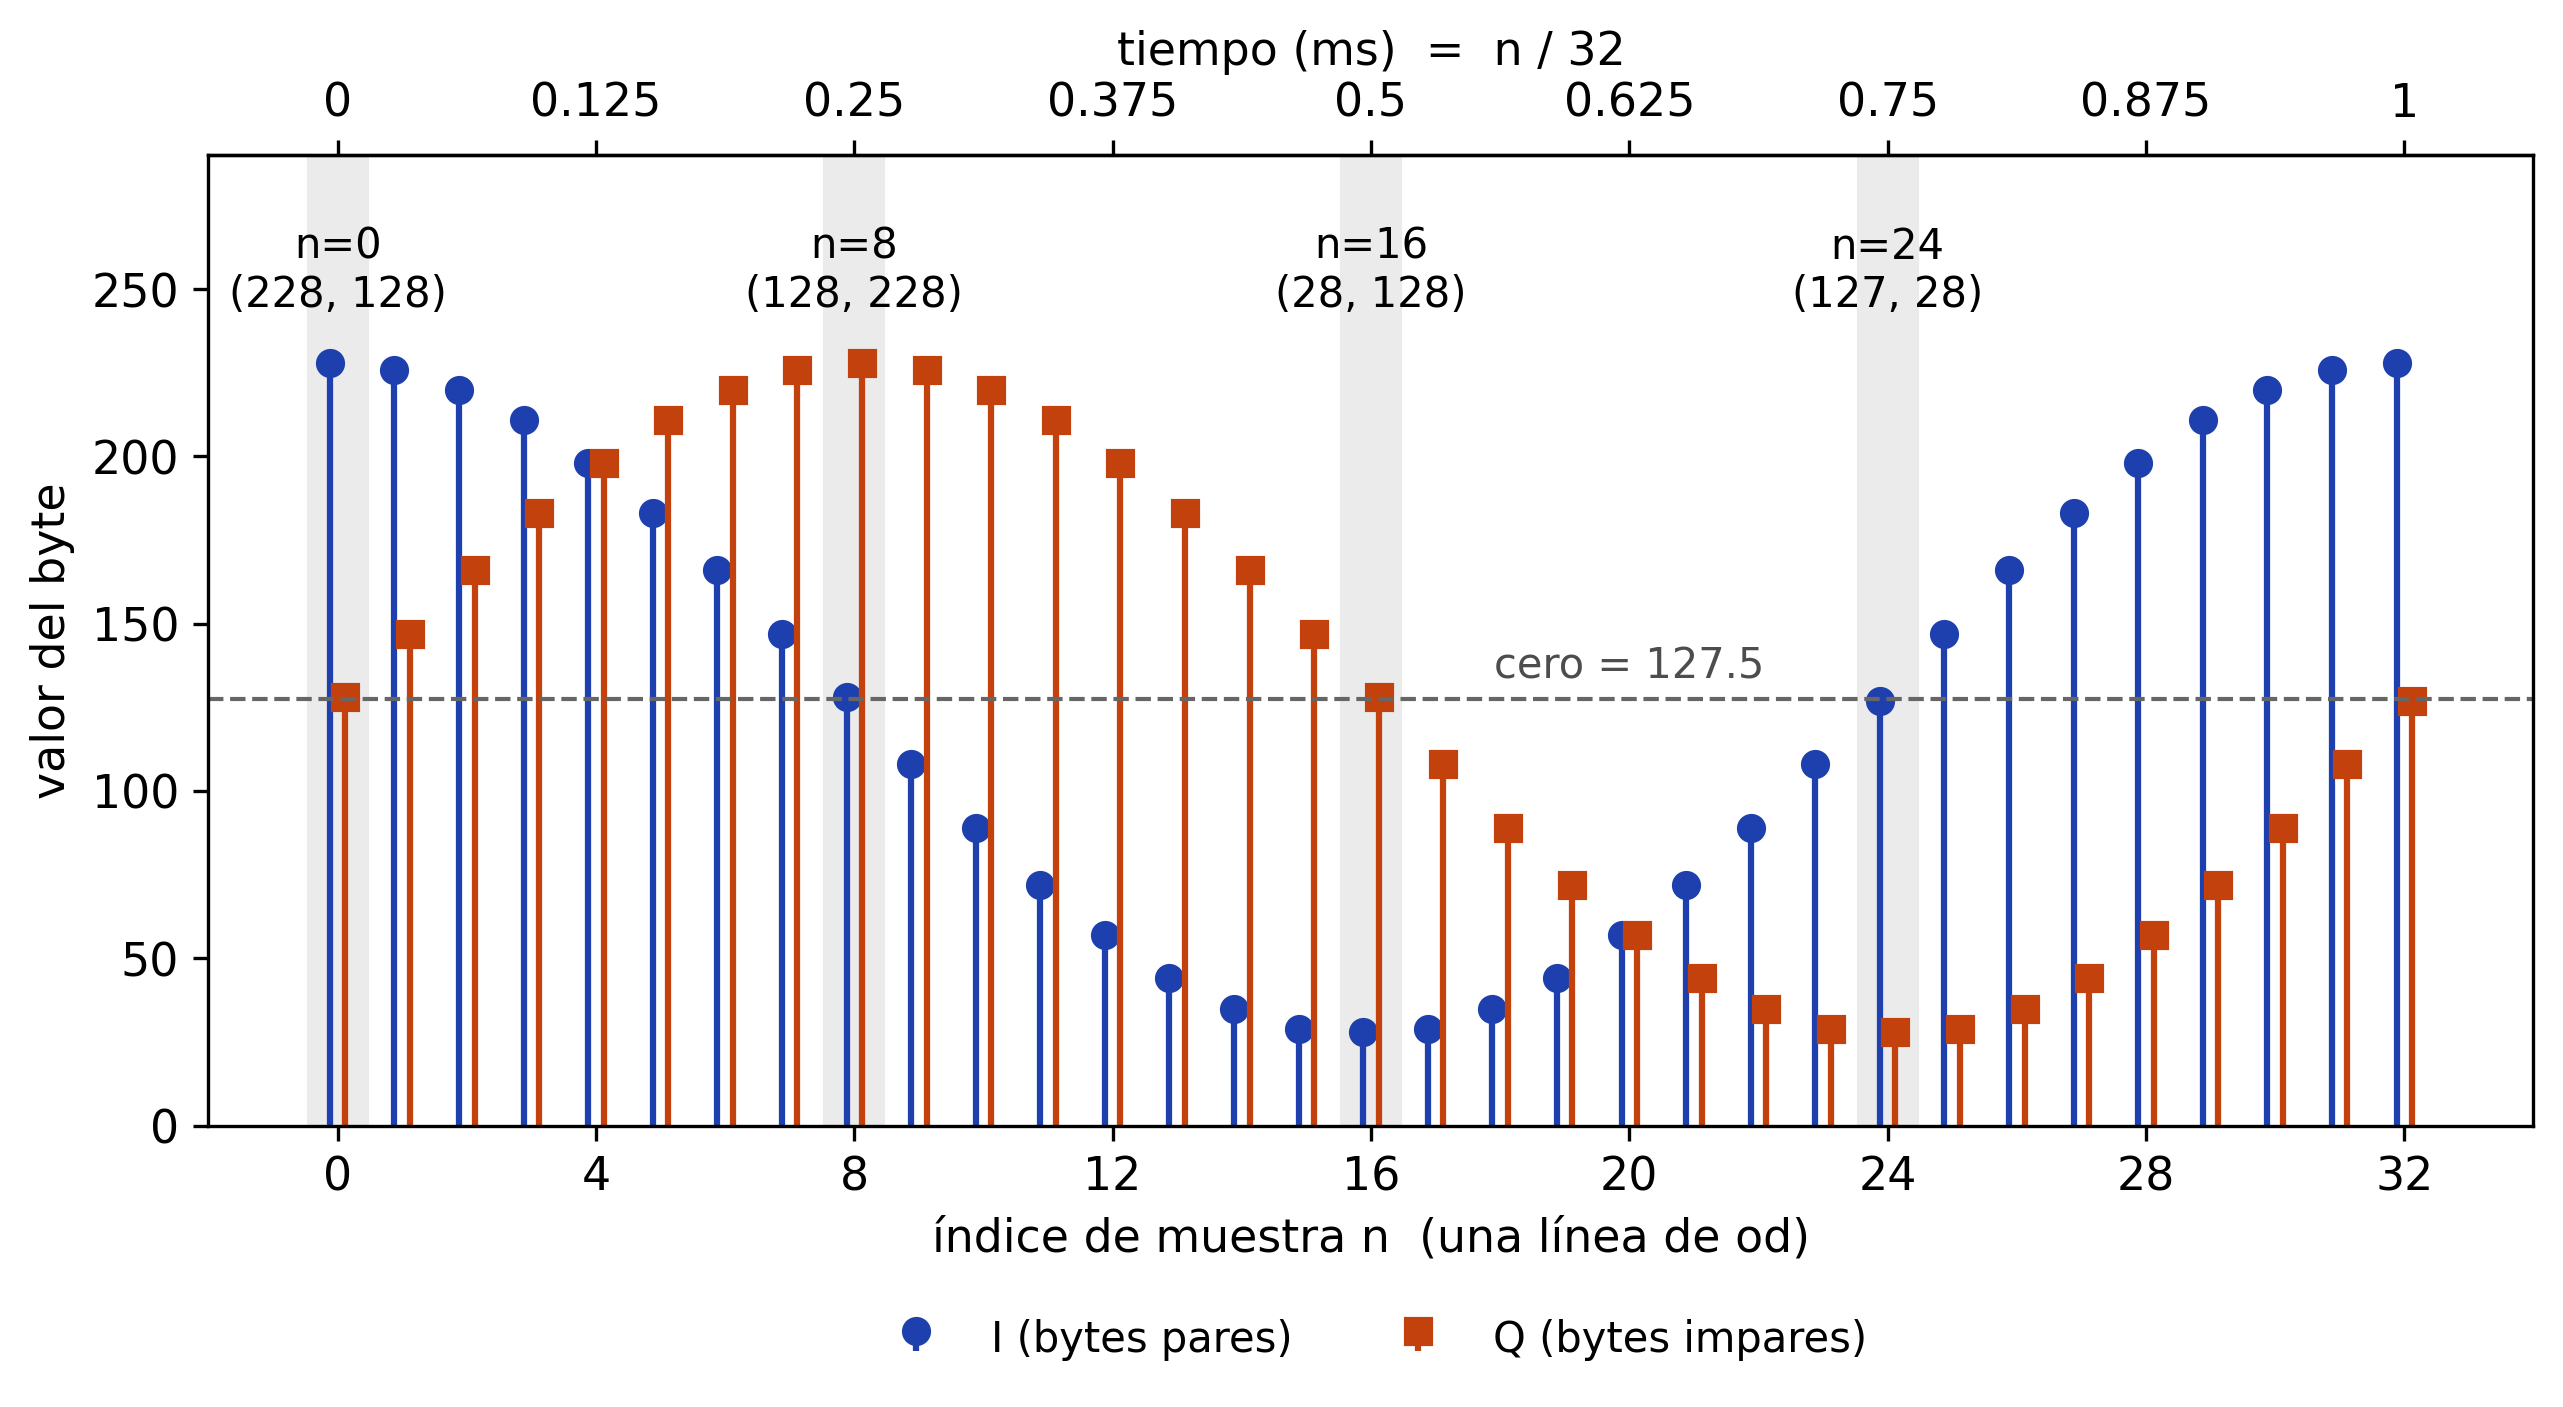
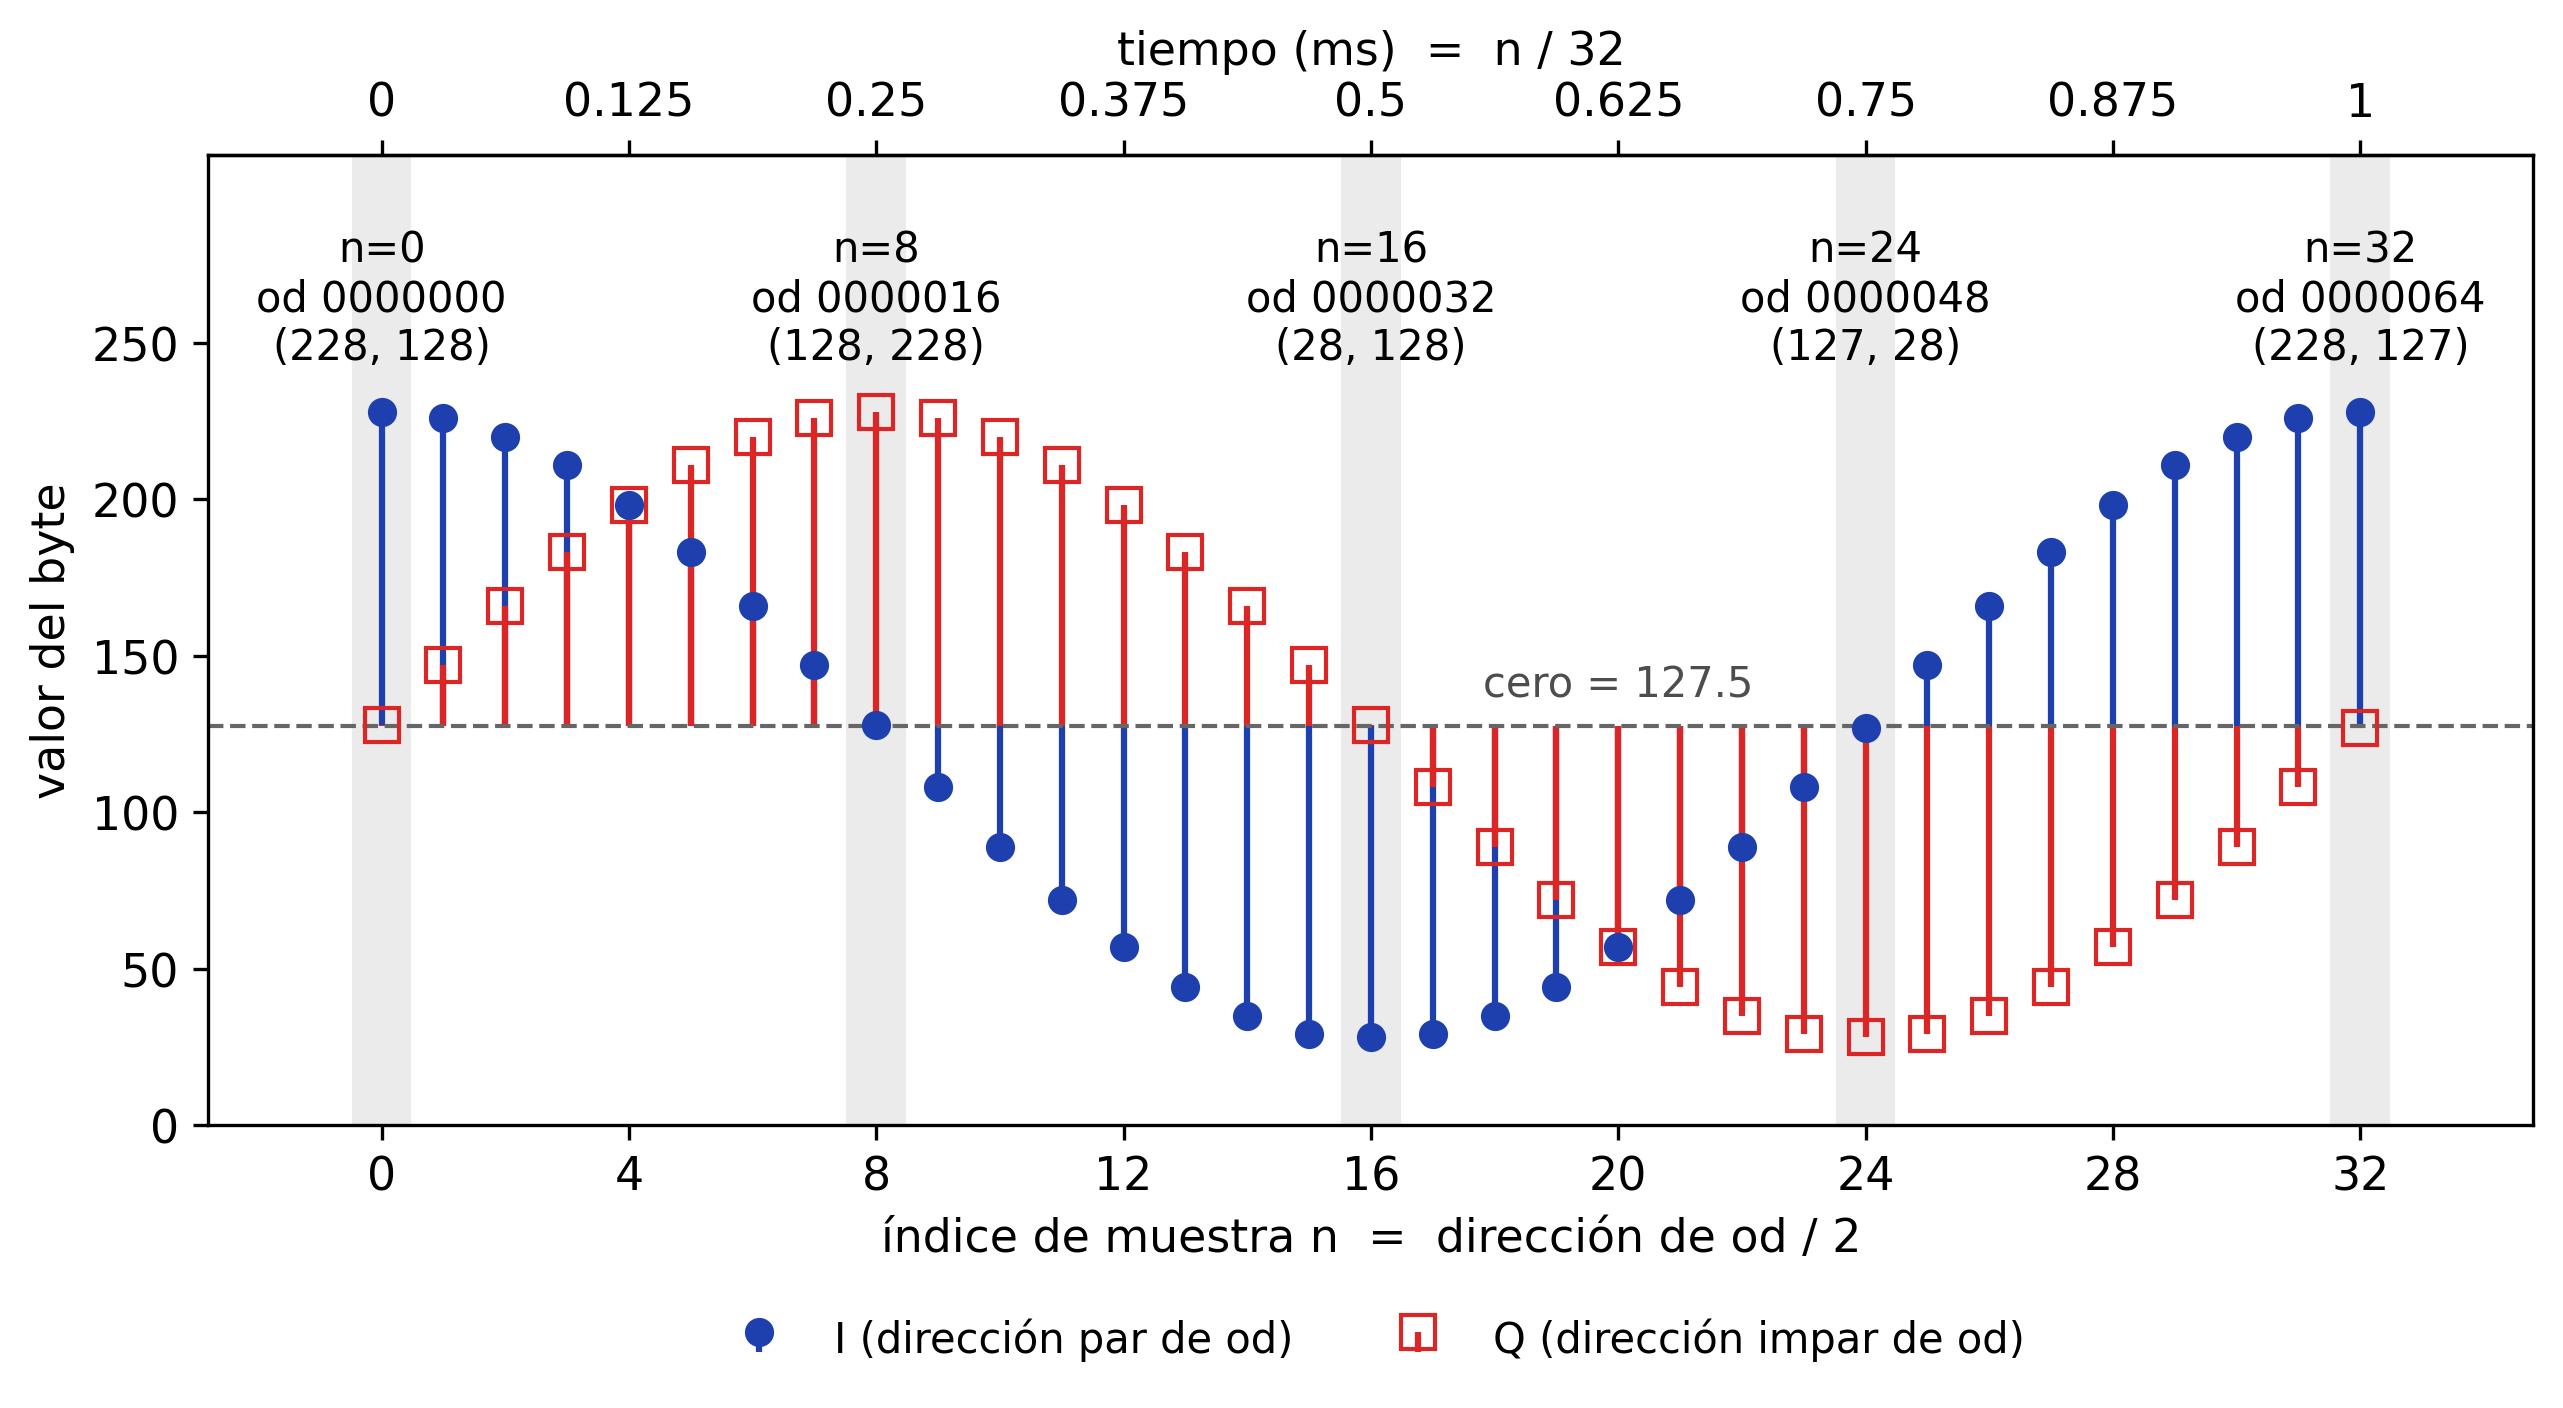
Figura del milisegundo: I y Q en el mismo instante, tallos desde el cero y dirección de od
Claude-Session: https://claude.ai/code/session_01FWTMM6jn922Bhyb4wQGuoU

diff --git a/docs/sessions/01-introduccion-sdr/figures/gen_muestreo.py b/docs/sessions/01-introduccion-sdr/figures/gen_muestreo.py
@@ -24,7 +24,7 @@ import numpy as np  # noqa: E402
 
 OUT = Path(__file__).parent
 GEN_TONO = Path(__file__).parents[4] / "samples/gen_tono.py"
-BLUE, ORANGE = "#1e40af", "#c2410c"
+BLUE, RED = "#1e40af", "#dc2626"  # RED como en gen_iq.py y el Time Sink
 plt.rcParams.update({"font.size": 11})
 
 
@@ -39,19 +39,28 @@ def un_milisegundo():
 def generar(salida: Path = OUT) -> Path:
     n, i, q = un_milisegundo()
     fig, ax = plt.subplots(figsize=(10, 4.2), dpi=300)
-    ax.stem(n - 0.12, i, linefmt=BLUE, markerfmt="o", basefmt=" ", label="I (bytes pares)")
-    ax.stem(n + 0.12, q, linefmt=ORANGE, markerfmt="s", basefmt=" ", label="Q (bytes impares)")
+    # Misma x para I y Q (una línea de od = un instante); tallos desde el cero, como el Time Sink.
+    mi, _, _ = ax.stem(n, i, linefmt=BLUE, markerfmt="o", basefmt=" ", bottom=127.5,
+                       label="I (dirección par de od)")
+    mq, _, _ = ax.stem(n, q, linefmt=RED, markerfmt="s", basefmt=" ", bottom=127.5,
+                       label="Q (dirección impar de od)")
+    mq.set_markerfacecolor("none")
+    mq.set_markersize(8)  # el cuadrado hueco rodea al círculo cuando I == Q (n = 4, 20)
+    for m in (mi, mq):
+        m.set_zorder(3)  # marcadores por encima de los tallos del otro canal
     ax.axhline(127.5, color="0.4", ls="--", lw=1)
-    # Hueco sin tallos en n = 17..23 por encima de 108: ahí cabe la etiqueta del cero.
-    ax.text(20, 131, "cero = 127.5", ha="center", va="bottom", color="0.3", fontsize=10)
+    # En n = 17..23 los dos canales están por debajo del cero: el hueco de encima es libre.
+    ax.text(20, 134, "cero = 127.5", ha="center", va="bottom", color="0.3", fontsize=10)
     # Etiquetas en una franja fija sobre el máximo (228), no pegadas a cada tallo:
     # así no pisan los tallos vecinos; la columna sombreada las une con su pareja.
-    for k in (0, 8, 16, 24):
+    for k in (0, 8, 16, 24, 32):
         ax.axvspan(k - 0.45, k + 0.45, color="0.92", zorder=0)
-        ax.text(k, 242, f"n={k}\n({i[k]}, {q[k]})", ha="center", va="bottom", fontsize=10)
-    ax.set_xlim(-2, 34)
-    ax.set_ylim(0, 290)
-    ax.set_xlabel("índice de muestra n  (una línea de od)")
+        ax.text(k, 242, f"n={k}\nod {2*k:07d}\n({i[k]}, {q[k]})", ha="center", va="bottom",
+                fontsize=10)
+    ax.set_xlim(-2.8, 34.8)
+    ax.set_ylim(0, 310)
+    ax.set_yticks(range(0, 251, 50))  # un byte no pasa de 255: sin marca en 300
+    ax.set_xlabel("índice de muestra n  =  dirección de od / 2")
     ax.set_ylabel("valor del byte")
     ax.set_xticks(range(0, 33, 4))
     arriba = ax.secondary_xaxis("top", functions=(lambda x: x / 32, lambda t: t * 32))
